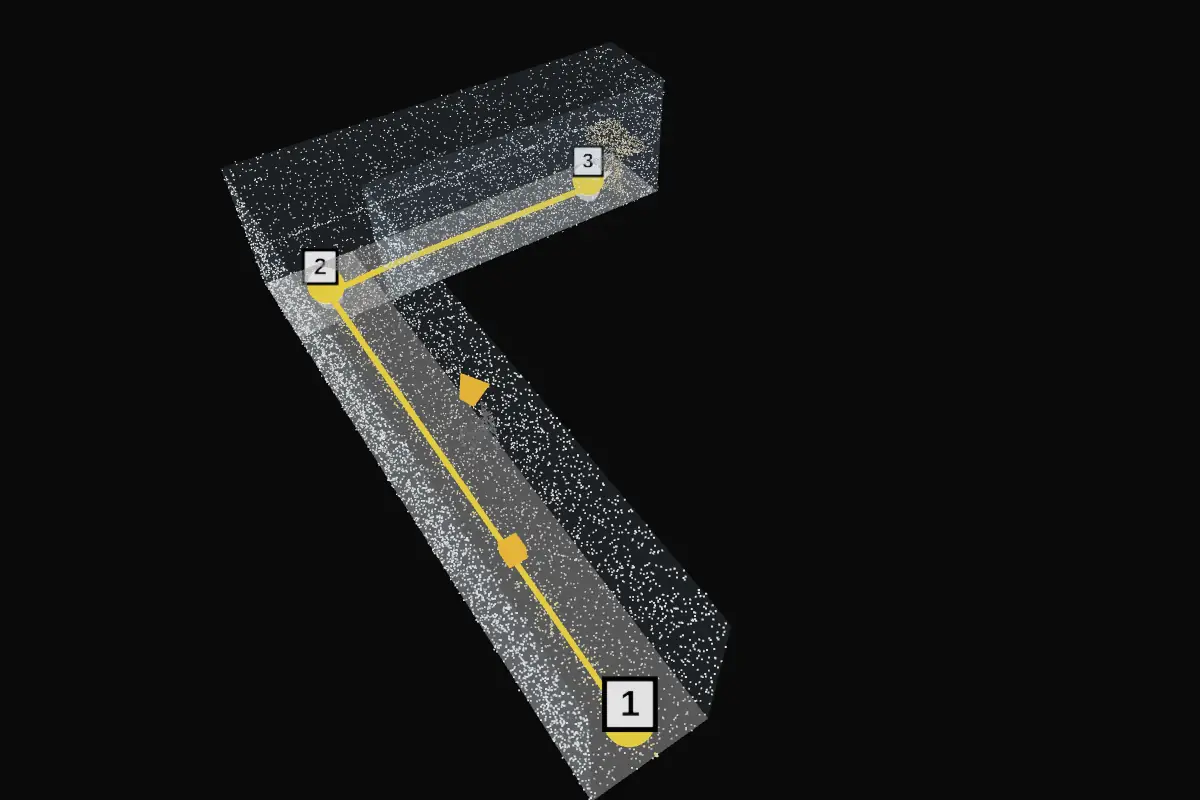
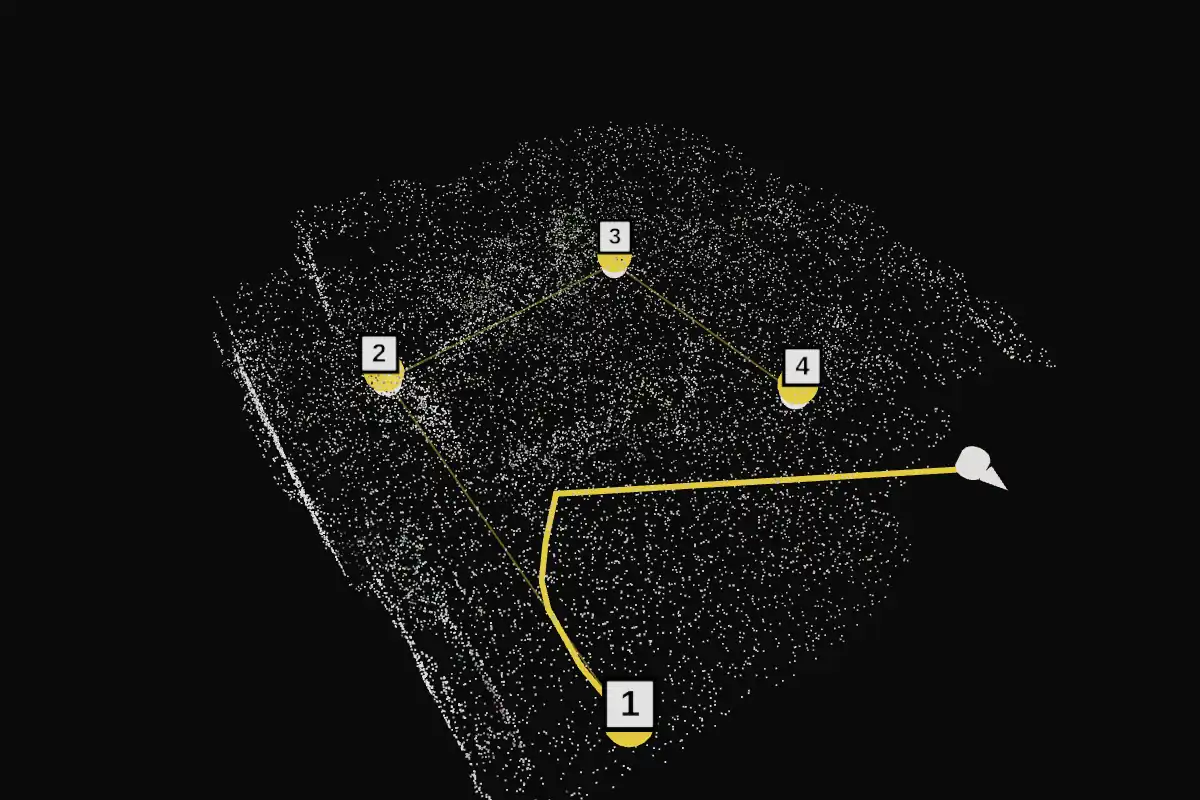
## The landing page now shows the real Downstair room The builder changed only the 5 allowed files. The demo setting is unchanged (still Downstair room, checked before and after), and no runs or data were created. Checks were targeted only, not the full suite.
**What changed**
1. **Fallback picture:** `hero-still.webp` is now a 1200×800 still (75 KB) of the hero's 3D Downstair room, with the yellow route and checkpoints 1–4. Visitors with reduced motion or no 3D see this.
2. **Teach picture:** `teach-review.webp` is now the room scan with checkpoints 1–4 (543×452, no cut-off text), at the same 289 px height as the other two pictures. It has the new alt text.
3. **Hero card:** this route has no chair, so the card switches every 6 s between:
   - green: "Spoken: Checkpoint 1: starting point."
   - amber: "Held back: Door on your right, about 7 metres. Reason: another cue 1.6 s earlier."

   If a confirmed chair exists, the chair text comes back. If the review lines can't load, the card shows the current synthetic text.
4. **Hero label:** now uses your wording, with no hallway, reception or corridor words left.

**One decision for you:** the run review page draws the walked path in magenta, and the landing page avoids magenta, so the builder recoloured that path yellow in the Teach picture. The scan, checkpoints and layout are untouched. Say if you'd rather keep the original magenta.

**Two changes you didn't ask for** (both inside the allowed files, both easy to undo):
- **Marker starts at once:** the real recording's first position comes at 14.8 s, so the marker used to stand still that long at the start of each loop. Now it starts walking right away. The synthetic demo isn't affected.
[…]

Changed region(s): [[0.185, 0.0625, 0.8325, 1.0], [0.7708, 0.3438, 0.8633, 0.4375], [0.7092, 0.3125, 0.7708, 0.3438]]

diff --git a/frontend/src/components/landing/HeroVisual.jsx b/frontend/src/components/landing/HeroVisual.jsx
@@ -1,10 +1,11 @@
 import { Component, Suspense, lazy, useCallback, useEffect, useState } from "react";
 import still from "@/assets/landing/hero-still.webp";
+import { API } from "@/lib/api";
 
 const CARDS = ["Spoken: Chair ahead, about 2 metres.", "Held back: Known, chair confirmed in v2"];
 
 const HeroScene = lazy(() => import("@/components/landing/HeroScene"));
-const LABEL = "Animated 3D model of the demo corridor: a marker walks from the entrance down the hallway, turns right to the reception desk, and passes a chair. On one pass the chair cue is spoken; on the next it is held back because the chair was confirmed in route memory v2.";
+const LABEL = "Animated 3D scan of a room: a marker walks the approved route past numbered checkpoints; cues spoken or held back are shown in the card.";
 
 function webglOk() {
   try {
@@ -13,6 +14,25 @@ function webglOk() {
   } catch {
     return false;
   }
+}
+
+function reviewCards(timeline) {
+  const spoken = timeline.find((i) => i.category === "spoken" && i.kind === "checkpoint" && i.text);
+  const held = timeline.find((i) => i.category === "suppressed" && i.text && i.reason);
+  if (!spoken || !held) return null;
+  const short = (t) => (t.match(/^Checkpoint \d+: [^.]*\./) || [t])[0];
+  return [`Spoken: ${short(spoken.text)}`, `Held back: ${short(held.text)} Reason: ${held.reason.replace(/^Held back: /, "")}.`];
+}
+
+function useCards() {
+  const [cards, setCards] = useState(CARDS);
+  useEffect(() => {
+    fetch(`${API}/demo/scene`).then((r) => (r.ok ? r.json() : Promise.reject()))
+      .then((d) => (d.chair || !d.review_attempt_id ? null : fetch(`${API}/attempts/${d.review_attempt_id}/review`).then((r) => (r.ok ? r.json() : null))))
+      .then((rv) => { const real = rv && reviewCards(rv.timeline || []); if (real) setCards(real); })
+      .catch(() => {});
+  }, []);
+  return cards;
 }
 
 class Boundary extends Component {
@@ -27,20 +47,20 @@ function Still() {
 }
 
 export default function HeroVisual() {
+  const cards = useCards();
   const [mode, setMode] = useState("still");
-  const [card, setCard] = useState(CARDS[1]);
   const [pass, setPass] = useState(1);
-  const fail = useCallback(() => { setMode("still"); setCard(CARDS[1]); setPass(1); }, []);
-  const onCard = useCallback((shown, p) => { setCard(CARDS[p]); setPass(p); }, []);
+  const fail = useCallback(() => { setMode("still"); setPass(1); }, []);
+  const onCard = useCallback((shown, p) => setPass(p), []);
   useEffect(() => {
     if (mode !== "still") return;
-    const t = setInterval(() => setPass((p) => { const n = 1 - p; setCard(CARDS[n]); return n; }), 6000);
+    const t = setInterval(() => setPass((p) => 1 - p), 6000);
     return () => clearInterval(t);
   }, [mode]);
   useEffect(() => {
     const reduced = window.matchMedia("(prefers-reduced-motion: reduce)").matches;
     if (reduced || !webglOk()) return;
-    const id = (window.requestIdleCallback || ((f) => setTimeout(f, 200)))(() => { setMode("3d"); setCard(CARDS[0]); setPass(0); });
+    const id = (window.requestIdleCallback || ((f) => setTimeout(f, 200)))(() => { setMode("3d"); setPass(0); });
     return () => (window.cancelIdleCallback || clearTimeout)(id);
   }, []);
   return (
@@ -53,9 +73,7 @@ export default function HeroVisual() {
           </Suspense>
         </Boundary>
       ) : <Still />}
-      {card && (
-        <div className={`bv-hero-card ${pass === 0 ? "bv-hero-card-spoken" : "bv-hero-card-held"}`} aria-hidden="true" data-testid="hero-caption-card">{card}</div>
-      )}
+      <div className={`bv-hero-card ${pass === 0 ? "bv-hero-card-spoken" : "bv-hero-card-held"}`} aria-hidden="true" data-testid="hero-caption-card">{cards[pass]}</div>
     </div>
   );
 }

diff --git a/frontend/src/pages/Landing.jsx b/frontend/src/pages/Landing.jsx
@@ -10,8 +10,8 @@ const CDC = "https://www.cdc.gov/vision-health-data/prevalence-estimates/vision-
 const ACVREP = "https://www.acvrep.org/newsitem?id=97";
 const HUMAN_PHOTO = null;
 const STEPS = [
-  { title: "Teach", text: "The specialist walks the route and approves the proposed checkpoints.", img: teachImg, w: 543, h: 564,
-    alt: "Teach-walk review screen: a 3D map of an L-shaped corridor with numbered checkpoint markers 1, 2 and 3 along the walked line." },
+  { title: "Teach", text: "The specialist walks the route and approves the proposed checkpoints.", img: teachImg, w: 543, h: 452,
+    alt: "A 3D scan of a room with numbered checkpoints 1 to 4 along the route." },
   { title: "Practise", text: "The client follows it with smart glasses or a phone. It stays quiet unless a cue helps.", img: runImg, w: 430, h: 860,
     alt: "Client run screen on a phone: status Running and the latest cue in large text, 'Chair ahead, about 2 metres.', above Start, Pause and Repeat cue buttons." },
   { title: "Review", text: "The specialist sees what was spoken, what was held back and why, and corrects the route memory.", img: reviewImg, w: 437, h: 900,

diff --git a/frontend/src/components/landing/HeroScene.jsx b/frontend/src/components/landing/HeroScene.jsx
@@ -20,7 +20,7 @@ function at(poses, ms) {
 
 function Loop({ data, onPass }) {
   const marker = useRef();
-  const poses = data.poses;
+  const poses = useMemo(() => data.poses.map((p) => [p[0], p[1], p[2], p[3] - data.poses[0][3]]), [data.poses]);
   const length = poses[poses.length - 1][3] + PAUSE_MS;
   const [state, setState] = useState({ pass: 0, i: 0 });
   const start = useRef(null);
@@ -54,7 +54,7 @@ function Loop({ data, onPass }) {
           <meshBasicMaterial color={YELLOW} wireframe={state.i < c.at} />
         </mesh>
       ))}
-      {shown && (
+      {shown && data.chair && (
         <mesh position={[sight[0], 0.3, sight[1]]}>
           {state.pass === 0 ? <sphereGeometry args={[0.2, 16, 16]} /> : <boxGeometry args={[0.3, 0.3, 0.3]} />}
           <meshBasicMaterial color={state.pass === 0 ? GREEN : AMBER} />
